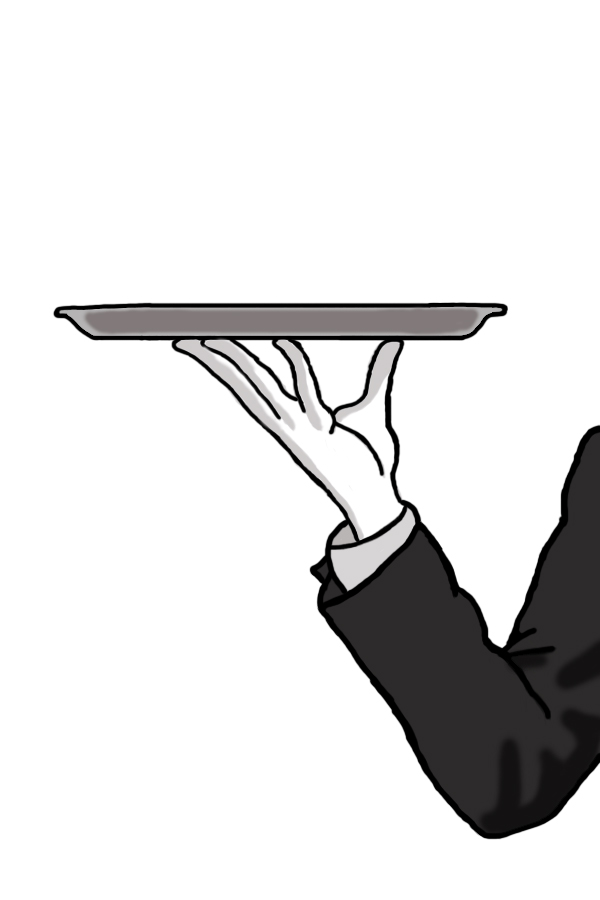
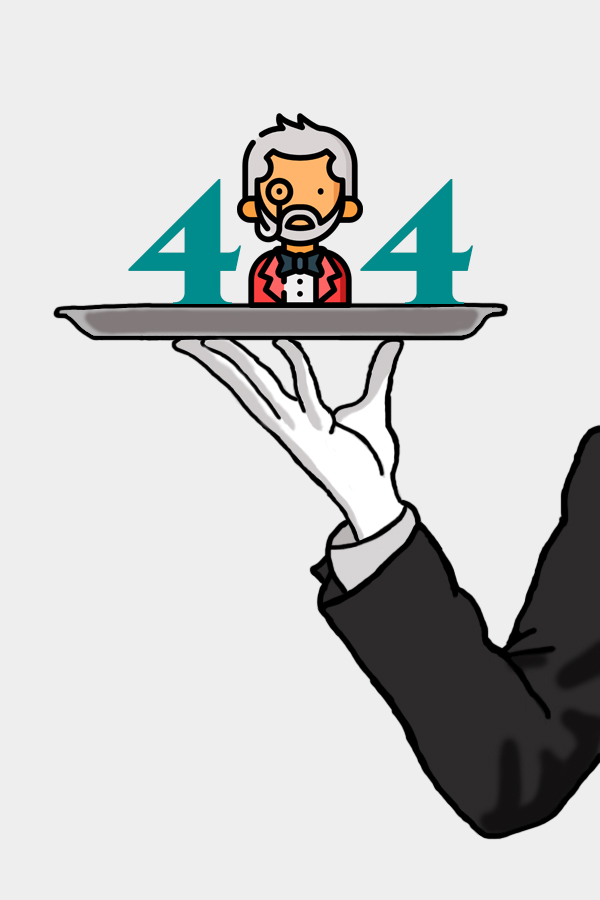
update 404

Changed region(s): [[0.21, 0.1244, 0.78, 0.3422]]

diff --git a/src/components/Error/Error.jsx b/src/components/Error/Error.jsx
@@ -6,7 +6,7 @@ import CardContent from '@mui/material/CardContent';
 import CardActions from '@mui/material/CardActions';
 import Typography from '@mui/material/Typography';
 import Button from '@mui/material/Button';
-import Serveur from '../../assets/serveur4.jpg';
+import Serveur from '../../assets/serveur.jpg';
 
 function Error() {
   return (
